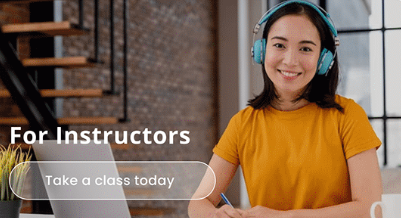
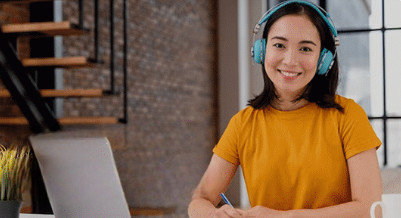
Adjusted portions of the footer section

Changed region(s): [[0.0, 0.5505, 0.5387, 0.9358]]

diff --git a/style.css b/style.css
@@ -689,6 +689,7 @@ hr{
     width: inherit;
     height: 30%;
     margin: 5px 0;
+    gap: 50px;
 }
 .mini-icon h2{
     margin-left: 20px;
@@ -708,6 +709,8 @@ hr{
     align-items: center;
     justify-content: center;
     width: 50%;
+    border: none;
+    border-radius: 30px;
 }
 .inner-course-selection-div button{
     width: 35%;
@@ -718,6 +721,16 @@ hr{
     color: var(--pure-white);
     font-size: 18px;
     margin: 10px 0;
+}
+.div-uno {
+    background-image: url('images/instructors.PNG');
+    background-position: center;
+    background-size: 100% 100%;
+}
+.div-2 {
+    background-image: url('images/students.PNG');
+    background-position: center;
+    background-size: 100% 100%;
 }
 footer{
     width: inherit;
@@ -765,7 +778,7 @@ footer .empty-div form input, button{
     font-size: 20px;
 }
 footer .empty-div form input{
-    width: 220px;
+    width: 500px;
 }
 footer .empty-div form button{
     width: 150px;
@@ -773,7 +786,7 @@ footer .empty-div form button{
 .footer-div2{
     max-width: 90vw;
     width: 80%;
-    margin: 30px auto;
+    margin: 30px auto 10px;
     display: flex;
     gap: 35px;
     justify-content: space-between;
@@ -791,6 +804,8 @@ footer .empty-div form button{
 .left-div p{
     text-align: left;
     line-height: 1.8rem;
+    font-size: 18px;
+    color: var(--fade-black);
 }
 .left-div-top{
     display: flex;
@@ -807,9 +822,7 @@ footer .empty-div form button{
     font-size: 20px;
     font-weight: 800;
 }
-.left-div-top, h2{
-    font-size: 18px;
-    color: var(--fade-black);
+.left-div-top {
     margin-bottom: 20px;
     font-family: 'Geologica';
 }
@@ -863,70 +876,48 @@ footer .empty-div form button{
 }
 .footer-div3 p{
     padding: 30px 0 10px;
+    text-transform: capitalize;
 }
-.sdiv1 {
+.sdiv {
     border: none;
     outline: none;
     border-radius: 50%;
     background-color: var(--light-green-aqua);
+    position: absolute;
+}
+.sdiv1 {
     height: 20px;
     width: 20px;
-    position: absolute;
     top: 15px;
     left: 100px;
 }
 .sdiv2 {
-    border: none;
-    outline: none;
-    border-radius: 50%;
-    background-color: var(--light-green-aqua);
     height: 20px;
     width: 20px;
-    position: absolute;
     top: 15px;
     right: 100px;
 }
 .sdiv3 {
-    border: none;
-    outline: none;
-    border-radius: 50%;
-    background-color: var(--light-green-aqua);
     height: 15px;
     width: 15px;
-    position: absolute;
     top: 35px;
     left: 115px;
 }
 .sdiv4 {
-    border: none;
-    outline: none;
-    border-radius: 50%;
-    background-color: var(--light-green-aqua);
     height: 15px;
     width: 15px;
-    position: absolute;
     top: 35px;
     right: 115px;
 }
 .sdiv5 {
-    border: none;
-    outline: none;
-    border-radius: 50%;
-    background-color: var(--light-green-aqua);
     height: 10px;
     width: 10px;
-    position: absolute;
     top: 50px;
     left: 130px;
 }
 .sdiv6 {
-    border: none;
-    outline: none;
-    border-radius: 50%;
-    background-color: var(--light-green-aqua);
     height: 10px;
     width: 10px;
-    position: absolute;
     top: 50px;
     right: 130px;
 }

diff --git a/index.html b/index.html
@@ -298,11 +298,11 @@
                     </p>
                 </div>
                 <div class="course-selection-container">
-                    <div class="inner-course-selection-div">
+                    <div class="inner-course-selection-div div-uno">
                         <h2>For Instructors</h2>
                         <button class="btn-left">Take a class today</button>
                     </div>
-                    <div class="inner-course-selection-div">
+                    <div class="inner-course-selection-div div-2">
                         <h2>For Students</h2>
                         <button class="btn-right">Start learning now</button> 
                     </div>
@@ -420,12 +420,12 @@
                 </div>
             </div>
             <div class="footer-div3">
-                <div class="sdiv1"></div>
-                <div class="sdiv2"></div>
-                <div class="sdiv3"></div>
-                <div class="sdiv4"></div>
-                <div class="sdiv5"></div>
-                <div class="sdiv6"></div>
+                <div class="sdiv sdiv1"></div>
+                <div class="sdiv sdiv2"></div>
+                <div class="sdiv sdiv3"></div>
+                <div class="sdiv sdiv4"></div>
+                <div class="sdiv sdiv5"></div>
+                <div class="sdiv sdiv6"></div>
                 <p>Thank you for visiting</p> 
             </div>
         </footer>
